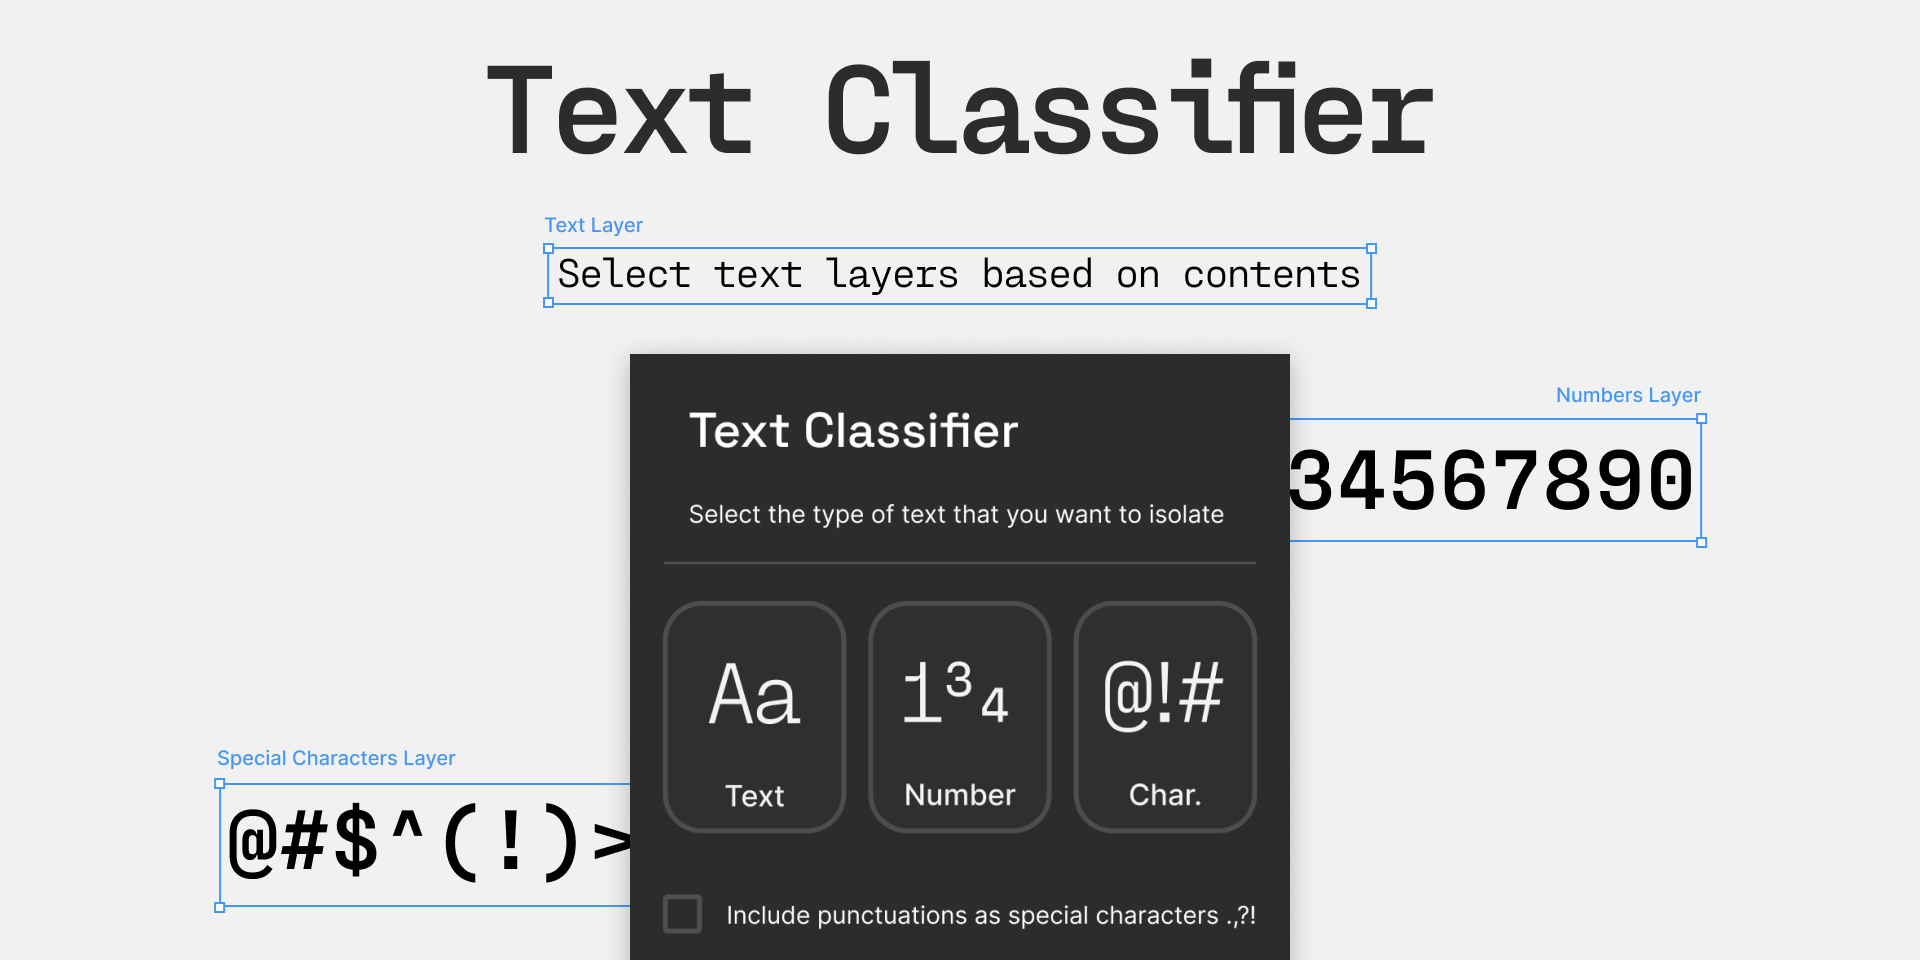
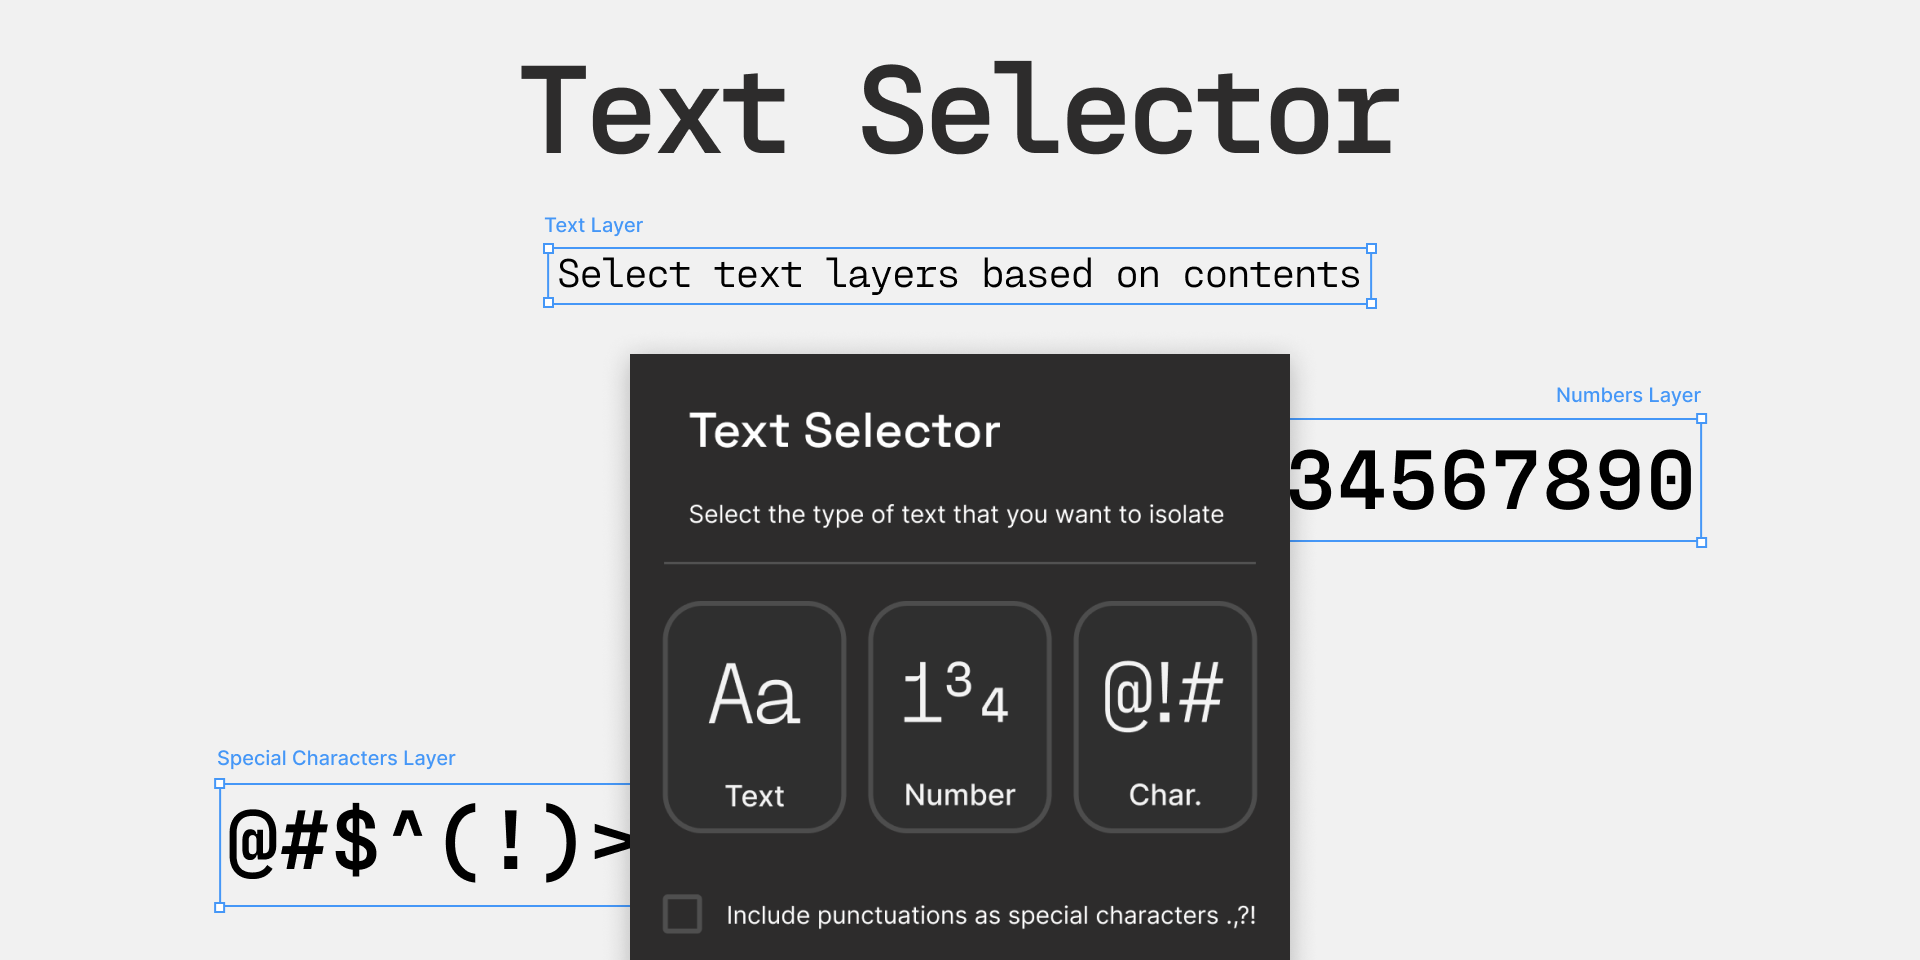
Fixed UI and typefaces issues

Changed region(s): [[0.25, 0.0625, 0.75, 0.1875], [0.4062, 0.4375, 0.5312, 0.4688]]

diff --git a/ui.html b/ui.html
@@ -1,6 +1,8 @@
 <html>
 
 <head>
+  <link rel="stylesheet" href="https://fonts.googleapis.com/css2?family=Space+Grotesk&display=swap">
+  <link href="https://fonts.googleapis.com/css2?family=Inter:wght@400;600&display=swap" rel="stylesheet">
   <style>
     body {
       font-family: 'Inter', -apple-system, BlinkMacSystemFont, "Segoe UI", Roboto, Helvetica, Arial, sans-serif;
@@ -22,7 +24,7 @@
     }
 
     h1 {
-      font-family: 'Space Grotesk';
+      font-family: 'Space Grotesk', sans-serif;
       font-size: 20px;
       font-weight: 400;
       margin: 0 0 8px 0;
@@ -123,7 +125,7 @@
 
 <body>
   <div class="container">
-    <h1>Text Classifier</h1>
+    <h1>Text Selector</h1>
     <p>Choose the type of text layer(s) to select</p>
     <hr>
     <div class="button-row">
